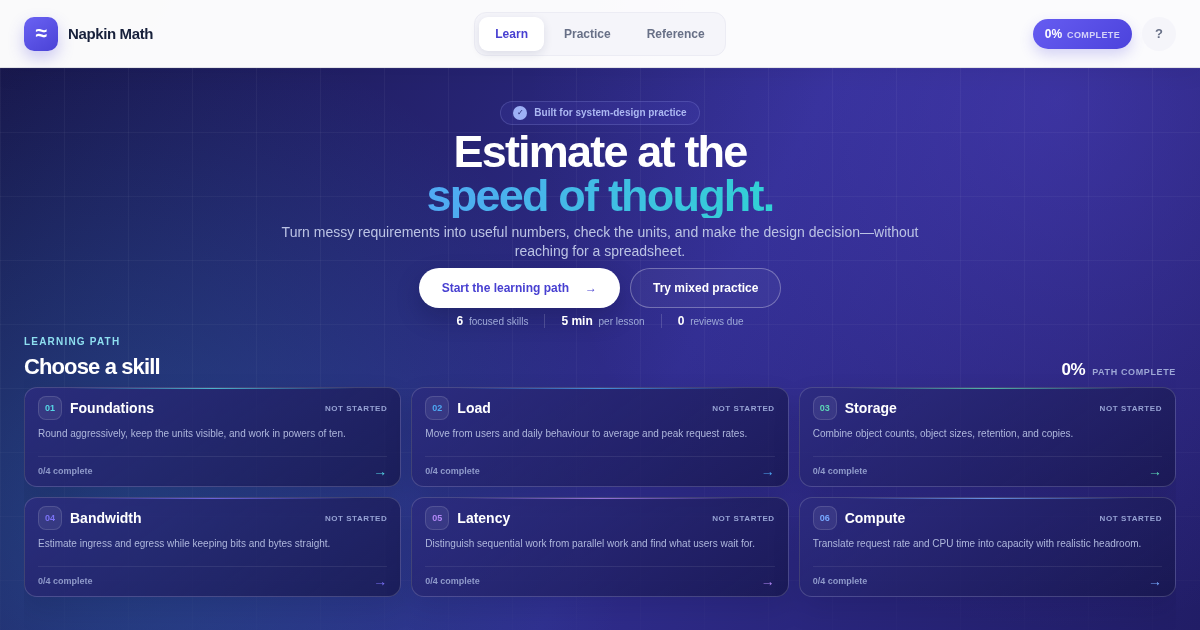
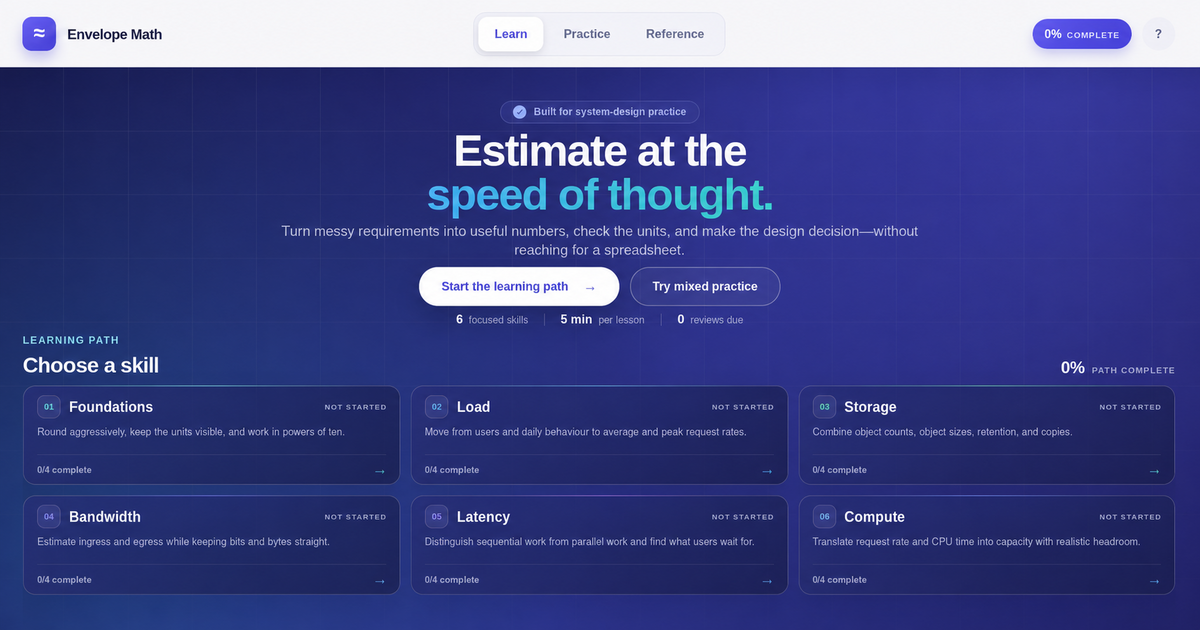
Rebrand from Napkin Math to Envelope Math

diff --git a/src/App.tsx b/src/App.tsx
@@ -25,7 +25,8 @@ import { answerUnitOptions, formatAnswer, units } from './domain/units'
 
 type Screen = 'dashboard' | 'intro' | 'practice' | 'reference'
 
-const INTRO_STORAGE_KEY = 'napkin-intro-seen'
+const INTRO_STORAGE_KEY = 'envelope-intro-seen'
+const LEGACY_INTRO_STORAGE_KEY = ['nap', 'kin-intro-seen'].join('')
 
 const emptyAnswer: LearnerAnswer = {
   formulaId: '',
@@ -113,7 +114,7 @@ function AppHeader({
     <header className="site-header">
       <button className="brand" onClick={onHome} aria-label="Back to lesson map">
         <BrandMark />
-        <span>Napkin Math</span>
+        <span>Envelope Math</span>
       </button>
       <nav className="mode-tabs" aria-label="Workspace modes">
         <button
@@ -284,7 +285,7 @@ function LessonIntro({
         </section>
 
         <aside className="reference-card" aria-labelledby="reference-title">
-          <p className="kicker">On your napkin</p>
+          <p className="kicker">On your envelope</p>
           <h2 id="reference-title">Useful anchors</h2>
           <ul>
             {skill.reference.map((item) => <li key={item}>{item}</li>)}
@@ -544,7 +545,7 @@ function Practice({
 
               {reveal && (
                 <div className="walkthrough">
-                  <span>The napkin version</span>
+                  <span>The envelope version</span>
                   <strong>{scenario.mentalModel}</strong>
                   <ol>
                     {scenario.walkthrough.map((step) => <li key={step}>{step}</li>)}
@@ -576,7 +577,7 @@ function QuickReference({ onReset }: { onReset: () => void }) {
     <main id="main-content" className="reference-page page-shell">
       <section className="reference-heading">
         <p className="kicker">Keep these in your head</p>
-        <h1>Your pocket napkin</h1>
+        <h1>Your envelope reference</h1>
         <p>Useful anchors, deliberately rounded for conversation-speed maths.</p>
       </section>
 
@@ -737,11 +738,18 @@ export default function App() {
   const [result, setResult] = useState<GradeResult | null>(null)
   const [attempt, setAttempt] = useState(0)
   const [reveal, setReveal] = useState(false)
-  const [showIntro, setShowIntro] = useState(() =>
-    typeof window === 'undefined'
-      ? false
-      : window.localStorage.getItem(INTRO_STORAGE_KEY) !== 'true',
-  )
+  const [showIntro, setShowIntro] = useState(() => {
+    if (typeof window === 'undefined') return false
+
+    const hasSeenIntro = window.localStorage.getItem(INTRO_STORAGE_KEY) === 'true'
+    const hasSeenLegacyIntro =
+      window.localStorage.getItem(LEGACY_INTRO_STORAGE_KEY) === 'true'
+    if (!hasSeenIntro && hasSeenLegacyIntro) {
+      window.localStorage.setItem(INTRO_STORAGE_KEY, 'true')
+      window.localStorage.removeItem(LEGACY_INTRO_STORAGE_KEY)
+    }
+    return !hasSeenIntro && !hasSeenLegacyIntro
+  })
 
   const scenario = scenarios.find((item) => item.id === scenarioId) ?? scenarios[0]!
 
@@ -815,6 +823,7 @@ export default function App() {
 
   const closeIntro = () => {
     window.localStorage.setItem(INTRO_STORAGE_KEY, 'true')
+    window.localStorage.removeItem(LEGACY_INTRO_STORAGE_KEY)
     setShowIntro(false)
   }
 

diff --git a/index.html b/index.html
@@ -7,50 +7,50 @@
       name="description"
       content="Build intuition for back-of-the-envelope system design estimates."
     />
-    <meta name="application-name" content="Napkin Math" />
-    <link rel="canonical" href="https://napkin-math.netlify.app/" />
+    <meta name="application-name" content="Envelope Math" />
+    <link rel="canonical" href="https://envelope-math.netlify.app/" />
     <meta name="theme-color" content="#211f68" />
 
     <meta property="og:type" content="website" />
-    <meta property="og:site_name" content="Napkin Math" />
+    <meta property="og:site_name" content="Envelope Math" />
     <meta property="og:locale" content="en_GB" />
-    <meta property="og:url" content="https://napkin-math.netlify.app/" />
-    <meta property="og:title" content="Napkin Math — Estimate at the speed of thought." />
+    <meta property="og:url" content="https://envelope-math.netlify.app/" />
+    <meta property="og:title" content="Envelope Math — Estimate at the speed of thought." />
     <meta
       property="og:description"
       content="Practise the quick estimates that turn system scale into concrete design decisions."
     />
     <meta
       property="og:image"
-      content="https://napkin-math.netlify.app/social-preview.png"
+      content="https://envelope-math.netlify.app/social-preview.png"
     />
     <meta
       property="og:image:secure_url"
-      content="https://napkin-math.netlify.app/social-preview.png"
+      content="https://envelope-math.netlify.app/social-preview.png"
     />
     <meta property="og:image:type" content="image/png" />
     <meta property="og:image:width" content="1200" />
     <meta property="og:image:height" content="630" />
     <meta
       property="og:image:alt"
-      content="Napkin Math system-design estimation workspace: Estimate at the speed of thought."
+      content="Envelope Math system-design estimation workspace: Estimate at the speed of thought."
     />
 
     <meta name="twitter:card" content="summary_large_image" />
-    <meta name="twitter:title" content="Napkin Math — Estimate at the speed of thought." />
+    <meta name="twitter:title" content="Envelope Math — Estimate at the speed of thought." />
     <meta
       name="twitter:description"
       content="Practise the quick estimates that turn system scale into concrete design decisions."
     />
     <meta
       name="twitter:image"
-      content="https://napkin-math.netlify.app/social-preview.png"
+      content="https://envelope-math.netlify.app/social-preview.png"
     />
     <meta
       name="twitter:image:alt"
-      content="Napkin Math system-design estimation workspace: Estimate at the speed of thought."
+      content="Envelope Math system-design estimation workspace: Estimate at the speed of thought."
     />
-    <title>Napkin Math — System Design Estimation Practice</title>
+    <title>Envelope Math — System Design Estimation Practice</title>
   </head>
   <body>
     <div id="root"></div>

diff --git a/e2e/app.spec.ts b/e2e/app.spec.ts
@@ -22,12 +22,17 @@ test.afterEach(async ({ page }) => {
 })
 
 test('shows the complete lesson map, quick reference, and social preview metadata', async ({ page, request }) => {
+  await expect(page.getByText('Envelope Math', { exact: true })).toBeVisible()
   await expect(page.getByRole('heading', { name: /estimate at the speed of thought/i })).toBeVisible()
   await expect(page.locator('.module-card')).toHaveCount(6)
 
+  await expect(page.locator('link[rel="canonical"]')).toHaveAttribute(
+    'href',
+    'https://envelope-math.netlify.app/',
+  )
   await expect(page.locator('meta[property="og:image"]')).toHaveAttribute(
     'content',
-    'https://napkin-math.netlify.app/social-preview.png',
+    'https://envelope-math.netlify.app/social-preview.png',
   )
   await expect(page.locator('meta[name="twitter:card"]')).toHaveAttribute(
     'content',
@@ -44,7 +49,7 @@ test('shows the complete lesson map, quick reference, and social preview metadat
   expect(document.headers()['x-frame-options']).toBe('DENY')
 
   await page.getByRole('button', { name: 'Reference' }).click()
-  await expect(page.getByRole('heading', { name: 'Your pocket napkin' })).toBeVisible()
+  await expect(page.getByRole('heading', { name: 'Your envelope reference' })).toBeVisible()
   await expect(page.getByText('1 day ≈ 10⁵ seconds')).toBeVisible()
 })
 

diff --git a/src/domain/progress.ts b/src/domain/progress.ts
@@ -8,7 +8,11 @@ import type {
   SkillProgress,
 } from './types'
 
-export const STORAGE_KEY = 'back-of-the-napkin-progress-v1'
+export const STORAGE_KEY = 'back-of-the-envelope-progress-v1'
+const LEGACY_STORAGE_KEY = `back-of-the-${['nap', 'kin'].join('')}-progress-v1`
+
+type ProgressStorage = Pick<Storage, 'getItem'> &
+  Partial<Pick<Storage, 'setItem' | 'removeItem'>>
 
 function emptySkillProgress(): SkillProgress {
   return {
@@ -30,12 +34,18 @@ export function createInitialProgress(): ProgressState {
   }
 }
 
-export function loadProgress(storage: Pick<Storage, 'getItem'>): ProgressState {
+export function loadProgress(storage: ProgressStorage): ProgressState {
   try {
-    const value = storage.getItem(STORAGE_KEY)
+    const currentValue = storage.getItem(STORAGE_KEY)
+    const legacyValue = currentValue ? null : storage.getItem(LEGACY_STORAGE_KEY)
+    const value = currentValue ?? legacyValue
     if (!value) return createInitialProgress()
     const parsed = JSON.parse(value) as ProgressState
     if (parsed.version !== 1 || !parsed.skills) return createInitialProgress()
+    if (legacyValue) {
+      storage.setItem?.(STORAGE_KEY, legacyValue)
+      storage.removeItem?.(LEGACY_STORAGE_KEY)
+    }
     return parsed
   } catch {
     return createInitialProgress()

diff --git a/src/domain/progress.test.ts b/src/domain/progress.test.ts
@@ -1,4 +1,4 @@
-import { describe, expect, it } from 'vitest'
+import { describe, expect, it, vi } from 'vitest'
 import {
   completionPercent,
   createInitialProgress,
@@ -7,6 +7,7 @@ import {
   isReviewDue,
   loadProgress,
   recordAttempt,
+  STORAGE_KEY,
 } from './progress'
 import type { GradeResult } from './types'
 
@@ -47,6 +48,19 @@ describe('progress', () => {
   it('recovers safely from corrupt persisted data', () => {
     const progress = loadProgress({ getItem: () => '{bad json' })
     expect(progress).toEqual(createInitialProgress())
+  })
+
+  it('migrates progress saved under the previous brand key', () => {
+    const serialized = JSON.stringify(createInitialProgress())
+    const setItem = vi.fn()
+    const removeItem = vi.fn()
+    const getItem = vi.fn()
+      .mockReturnValueOnce(null)
+      .mockReturnValueOnce(serialized)
+
+    expect(loadProgress({ getItem, setItem, removeItem })).toEqual(createInitialProgress())
+    expect(setItem).toHaveBeenCalledWith(STORAGE_KEY, serialized)
+    expect(removeItem).toHaveBeenCalledOnce()
   })
 
   it('marks prior practice for delayed review', () => {

diff --git a/src/App.test.tsx b/src/App.test.tsx
@@ -69,7 +69,7 @@ describe('App learning flow', () => {
 
     await user.click(screen.getByRole('button', { name: /check my second try/i }))
     expect(screen.getByText('Compare your path with the walkthrough.')).toBeInTheDocument()
-    expect(screen.getByText('The napkin version')).toBeInTheDocument()
+    expect(screen.getByText('The envelope version')).toBeInTheDocument()
   })
 
   it('reopens the introduction from the header without resetting progress', async () => {

diff --git a/README.md b/README.md
@@ -1,4 +1,4 @@
-# Back of the Napkin
+# Back of the Envelope
 
 A single-page learning app for practising back-of-the-envelope system-design calculations. It teaches the reasoning around an estimate—formula selection, order of magnitude, units, and design consequences—not only the final number.
 
